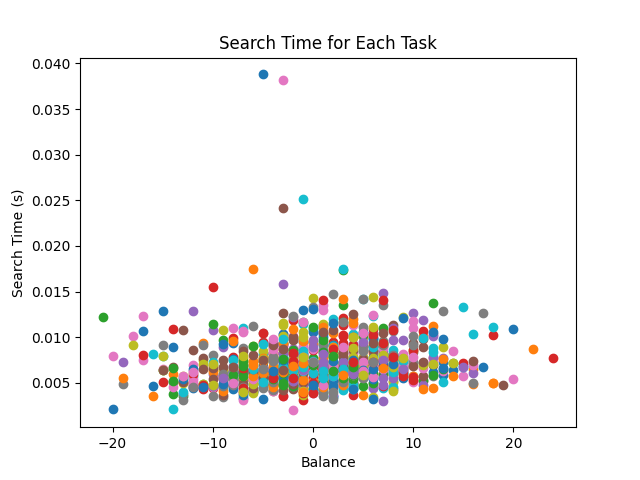
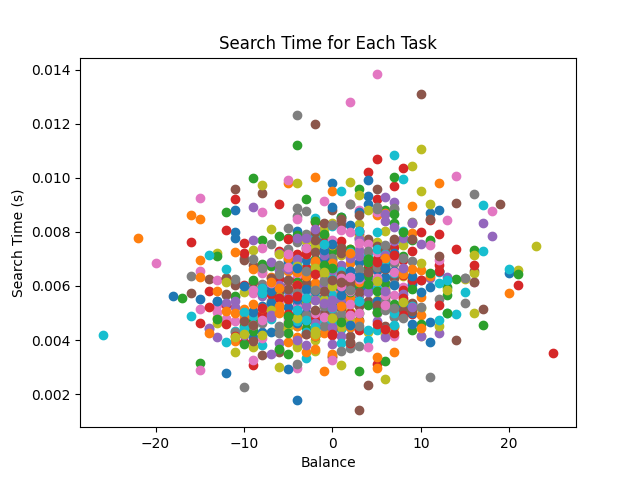
ex1

diff --git a/ex1.py b/ex1.py
@@ -73,10 +73,7 @@ for t in range(1000):
 
     performance_records = []
     balances = []
-    start_time = time.perf_counter()
-    timeit.timeit(lambda: bst.search(t), globals=globals(), number=10000)
-    end_time = time.perf_counter()
-    search_time = end_time - start_time  # Time taken for each search
+    search_time = timeit.timeit(lambda: bst.search(t), globals=globals(), number=10000)
     performance_records.append(search_time)  # Simplified measure of performance
     balances.append(balance_factors(bst))
 
